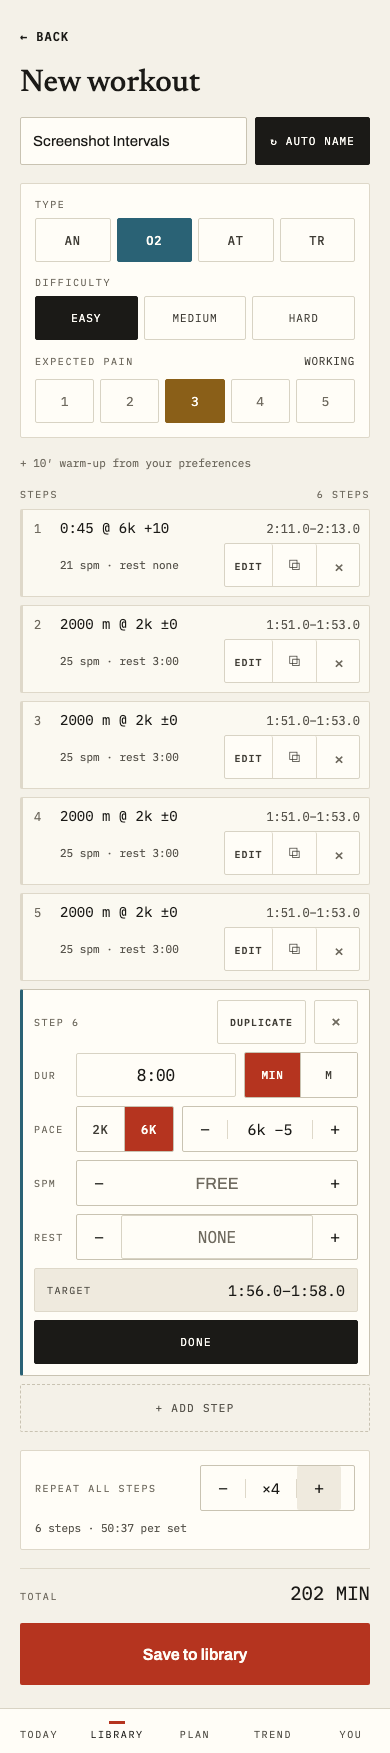
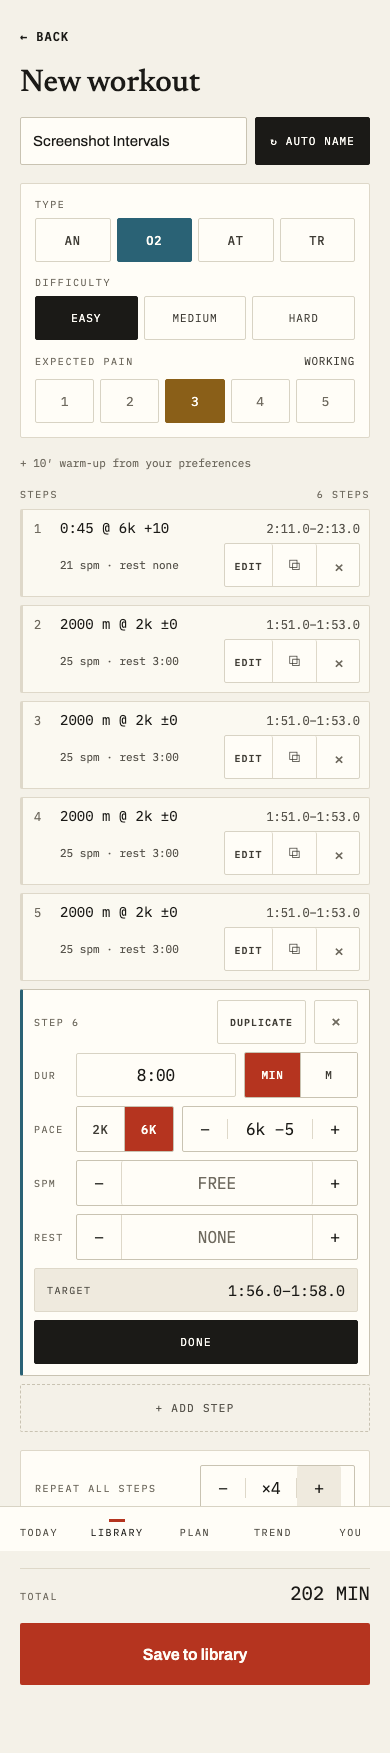
fix: unify the three stepper cells' look; harden the whole-second mirror test
- index.css: PACE/SPM/REST value cells now share one look (mono, 16px,
  side-borders-only) — SPM's input no longer loses its borders to a
  `border: 0` reset, and REST's ClockInput no longer nests its own
  bordered/radius box inside the stepper via a new `.stepper-value.clock-input`
  compound-specificity override. .pace-ref-display matches at 16px too.
- builderState.test.ts: added 31 (one of the 407 whole seconds that don't
  survive `n * 60` exactly) to the round-trip table, closing the gap where
  a naive `Number.isInteger(n * 60)` mirror regression left all tests green.
  Verified both ways (mutate -> fails, restore -> passes).
- Fixed four stale comments (FREE placeholder, ADD STEP no longer copies,
  REST's now-typable field, ClockInput's MAX_DIGITS rationale) and removed
  a dead pre-typed unit-switch click screenshots.spec.ts no longer needs.
- bulk.test.ts: renamed the test that claimed to agree with the builder but
  never touched it; added a real comparison test in builderState.test.ts
  that drives the same tokens through both parseDurationToken and the
  builder's REST round trip (domain tests can't import client code, so the
  actual comparison lives on the client side).

Claude-Session: https://claude.ai/code/session_01UEXqdgDid4Qjd8D5uoRZ3H

diff --git a/app/src/index.css b/app/src/index.css
@@ -1009,7 +1009,11 @@ button:disabled {
   border-right: 1px solid var(--rule-2);
   color: var(--ink);
   font-family: var(--font-mono);
-  font-size: 15px;
+  /* 16px, not 15: PACE's plain span has no iOS-zoom constraint of its own,
+     but SPM/REST's inputs must stay at 16px (below that, iOS Safari zooms
+     the page on focus), so the span comes up to meet them rather than the
+     inputs shrinking down to it — all three read as one control. */
+  font-size: 16px;
   text-align: center;
   overflow: hidden;
   text-overflow: ellipsis;
@@ -1024,15 +1028,38 @@ button:disabled {
 /* The value cell is an input when its caller passes onValueChange (Task 5:
    SPM/REST are typable, not only steppable) — same metrics, no chrome of
    its own, since the joined stepper container already draws the borders.
-   Only applies to the plain-text variant (SPM); REST's ClockInput keeps its
-   own `.clock-input` box (it already sets the required 16px/44px). */
+   Only the top/bottom borders are zeroed here: `.stepper-value`'s own
+   border-left/border-right (above) still apply since nothing here touches
+   those properties, so SPM's input keeps the same side borders as PACE's
+   span and REST's ClockInput instead of losing them to a `border: 0`
+   shorthand reset (that regression shipped once already — see
+   docs/design/DEVIATIONS.md history). */
 .stepper-value-input {
   min-height: 44px;
-  border: 0;
+  border-top: 0;
+  border-bottom: 0;
   background: transparent;
   color: inherit;
-  font: inherit;
+  font-family: var(--font-mono);
+  font-size: 16px;
   text-align: center;
+}
+
+/* REST's ClockInput renders inside a Stepper's value cell with both
+   `clock-input` and `stepper-value` on the same element. Two classes on one
+   element (specificity 0,2,0) beat either rule alone regardless of source
+   order, so this — not file position — is what makes the joined stepper's
+   own border/background win over `.clock-input`'s standalone box (used
+   elsewhere, e.g. DurationInput's DUR field, where that box is exactly what
+   we want and must stay untouched). Without this override REST nested a
+   second bordered, radius-cornered box inside the stepper's own box. */
+.stepper-value.clock-input {
+  width: auto;
+  border: 0;
+  border-left: 1px solid var(--rule-2);
+  border-right: 1px solid var(--rule-2);
+  border-radius: 0;
+  background: transparent;
 }
 
 /* Empty SPM/REST cells used to read "FREE"/"NONE" as literal text (a plain
@@ -1040,8 +1067,10 @@ button:disabled {
    placeholder just reads as broken. `::placeholder` restores the same
    reading without becoming the field's accessible name (`aria-label`
    already supplies that, and a placeholder drops out of the accessibility
-   tree once a name exists). ink-4 measures 5.29:1 against --surface — both
-   cells' background, .stepper's own and .clock-input's explicit one —
+   tree once a name exists). ink-4 measures 5.29:1 against --surface — every
+   cell's effective background resolves to --surface (the stepper's own,
+   inherited by both SPM's transparent input and REST's now-transparent
+   ClockInput; --surface directly for a standalone `.clock-input`) —
    clearing the 4.5:1 AA text requirement. `opacity: 1` overrides Firefox's
    default 54% placeholder fade, which would otherwise undercut that ratio. */
 .stepper-value-input::placeholder,
@@ -1304,7 +1333,10 @@ button:disabled {
   border-left: 1px solid var(--rule-2);
   border-right: 1px solid var(--rule-2);
   font-family: var(--font-mono);
-  font-size: 15px;
+  /* Matches `.stepper-value`'s 16px (below index.css's Stepper block) — a
+     plain span has no iOS-zoom constraint of its own, but it sits on the
+     same card as SPM/REST's 16px inputs and must read as one control. */
+  font-size: 16px;
   color: var(--ink);
   text-align: center;
   overflow: hidden;

diff --git a/app/src/builder/builderState.test.ts b/app/src/builder/builderState.test.ts
@@ -25,7 +25,11 @@ import {
   type BuilderForm,
   type BuilderRow,
 } from "./builderState";
-import { fmtDuration, parseClock } from "../../domain/duration.js";
+import {
+  fmtDuration,
+  parseClock,
+  parseDurationToken,
+} from "../../domain/duration.js";
 import { validateSteps } from "../../domain/validate.js";
 import { estimateMinutes } from "../../domain/expand.js";
 import type { Step } from "../../domain/types.js";
@@ -384,6 +388,35 @@ describe("toSteps", () => {
     expect(out.ok).toBe(false);
     if (out.ok) throw new Error("expected failure");
     expect(out.errors["row:default:rest"]).toMatch(/rest must be minutes/);
+  });
+
+  // Final review, fix wave 2: domain/bulk.test.ts had a test named "agrees
+  // with the builder on every duration form" that never touched the
+  // builder — it only called parseDurationToken directly, so it would still
+  // pass if a private, drifted regex ever replaced the shared call below.
+  // This is the actual cross-path comparison: it drives the same tokens
+  // through the builder's real REST round trip (formWith -> toSteps, the
+  // path a typed REST value takes to becoming `restMinutes`) and checks the
+  // result against calling parseDurationToken directly on the same token —
+  // proving the two agree because REST calls the shared function rather
+  // than a parser of its own.
+  it("builder's REST field agrees with parseDurationToken on every duration form", () => {
+    for (const token of ["0:45", "5", "10'"]) {
+      const expected = parseDurationToken(token);
+      if (expected === null || expected.kind !== "time") {
+        throw new Error(`fixture bug: ${token} should parse as a time`);
+      }
+      const f = formWith({ rows: [{ ...defaultValidRow(), rest: token }] });
+      const out = toSteps(f);
+      if (!out.ok) {
+        throw new Error(
+          `expected ok for rest "${token}", got ${JSON.stringify(out.errors)}`,
+        );
+      }
+      expect(out.steps[0], `${token}`).toMatchObject({
+        restMinutes: expected.minutes,
+      });
+    }
   });
 
   // 0.25 minutes (15s) used to violate the old half-step grid but is a
@@ -901,7 +934,13 @@ describe("clock durations in rows", () => {
   });
 
   it("round-trips every whole second the field can produce", () => {
-    for (const seconds of [1, 20, 45, 59, 60, 90, 3599, 3600, 10800]) {
+    // 31 is one of the 407 whole seconds (of 10,800 in range) that don't
+    // survive the round trip exactly — 31 / 60 * 60 === 31.000000000000004
+    // — so a naive `Number.isInteger(n * 60)` mirror of the domain's
+    // epsilon-based `wholeSecond` predicate would reject it while every
+    // other value in this table (all "clean" multiples) still passes. See
+    // domain/validate.test.ts's identical case for the domain side of this.
+    for (const seconds of [1, 20, 31, 45, 59, 60, 90, 3599, 3600, 10800]) {
       const minutes = seconds / 60;
       const form = fromWorkout({
         title: "T",

diff --git a/app/e2e/screenshots.spec.ts b/app/e2e/screenshots.spec.ts
@@ -213,18 +213,14 @@ async function fillSampleWorkout(page: Page): Promise<void> {
   await duplicateRow2.click();
   await duplicateRow2.click();
 
-  // Step 6: "+ ADD STEP" appends a copy of the last row's values and opens
-  // it — nudge it to look deliberately different (minutes, not metres;
-  // 6k, not 2k) so the screenshot doesn't read as four identical clones.
-  // It's copied a metres row, so the unit switch has to happen BEFORE
-  // typing (switching clears the field — a meter count is meaningless as a
-  // clock string); "800" digits into the now-masked clock field renders as
-  // "8:00".
+  // Step 6: "+ ADD STEP" appends a blank work step and opens it (Task 6 —
+  // it no longer copies the last row's values) — give it distinct values
+  // (minutes, not metres; 6k, not 2k) so the screenshot doesn't read as
+  // four identical clones. A blank row already defaults to "min"
+  // (newRow(), builderState.ts), so no unit switch is needed before typing;
+  // "800" digits into the masked clock field renders as "8:00".
   await page.getByRole("button", { name: "+ ADD STEP" }).click();
   const lastRowLabel = "Row 6";
-  await page
-    .getByRole("radio", { name: `${lastRowLabel} duration unit minutes` })
-    .click();
   await page
     .getByLabel(`${lastRowLabel} duration`, { exact: true })
     .fill("800");

diff --git a/app/src/builder/builderState.ts b/app/src/builder/builderState.ts
@@ -537,11 +537,13 @@ function stepToRow(s: Extract<Step, { k: "wu" | "w" | "r" }>): BuilderRow {
     row.refOff = s.ref.off;
     row.spm = s.spm !== undefined ? String(s.spm) : "";
     // `rest` writes the clock form — toSteps reads it back via
-    // `parseDurationToken`, which accepts clock strings (and still accepts a
-    // bare number or `5'` for anything hand-typed into the free-text REST
-    // field), so this must keep producing something that reads back as the
-    // same minutes or round-tripping a stored workout with restMinutes set
-    // produces an unparseable field and the edit can't be saved.
+    // `parseDurationToken`, which also accepts a bare number or `5'`, but
+    // REST is a typable ClockInput now (Task 5 replaced the old free-text
+    // field), so those two forms are only ever produced by bulk import's
+    // text blocks, never by this round trip. This must still keep producing
+    // something that reads back as the same minutes, or round-tripping a
+    // stored workout with restMinutes set produces an unparseable field and
+    // the edit can't be saved.
     row.rest = s.restMinutes !== undefined ? fmtDuration(s.restMinutes) : "";
   }
   return row;

diff --git a/app/domain/bulk.test.ts b/app/domain/bulk.test.ts
@@ -380,10 +380,15 @@ describe("clock durations in bulk blocks", () => {
     expect(step).toMatchObject({ duration: { kind: "time", minutes: 0.75 } });
   });
 
-  it("agrees with the builder on every duration form", () => {
-    // The two parsers were byte-identical regexes kept in lockstep by hand.
-    // They are now one function; this asserts the claim instead of commenting
-    // it.
+  it("covers every legal duration form (clock, bare number, apostrophe, distance)", () => {
+    // Named for what this actually checks: parseDurationToken's own grammar
+    // coverage. It doesn't touch the builder — importing src/builder/
+    // from a domain test would be a layering violation (domain must not
+    // depend on client code) — so it can't and doesn't prove the builder
+    // agrees with this. That comparison lives in
+    // src/builder/builderState.test.ts ("builder's REST field agrees with
+    // parseDurationToken on every duration form"), which is allowed to
+    // import domain code and does the actual cross-path comparison.
     for (const [token, expected] of [
       ["0:45", { kind: "time", minutes: 0.75 }],
       ["5", { kind: "time", minutes: 5 }],

diff --git a/app/src/builder/ClockInput.tsx b/app/src/builder/ClockInput.tsx
@@ -1,10 +1,14 @@
 import type { ChangeEvent } from "react";
 import { fmtDuration, parseClock } from "../../domain/duration.js";
 
-// Five digits reaches 3:00:00, the domain's ceiling for a single step: the
-// h:mm:ss branch below takes everything left of the last 4 digits as hours,
-// so a 6th digit would produce a two-digit hour group (e.g. "300000" ->
-// "30:00:00"), blowing past the ceiling instead of sitting at it.
+// Not a precise cap at the domain's 3:00:00 ceiling for a single step —
+// "99999" formats to "9:99:99", which read as h:mm:ss is 10:40:39, well past
+// it. Values that far out of range are rejected cleanly at save (toSteps's
+// bounds checks), so the field doesn't need to enforce the ceiling itself.
+// What 5 digits does prevent: the h:mm:ss branch below takes everything left
+// of the last 4 digits as hours, so a 6th digit would produce a two-digit
+// hour group (e.g. "300000" -> "30:00:00") — a value that reads as wildly
+// wrong before the user even reaches Save, rather than merely out of range.
 const MAX_DIGITS = 5;
 
 /** Digits, filled right to left into ss, then mm, then hh — the same order the

diff --git a/app/e2e/builder.spec.ts b/app/e2e/builder.spec.ts
@@ -708,9 +708,11 @@ test.describe("new controls this phase introduced", () => {
     await page.goto("/library/new");
 
     // SPM is a typable Stepper now (Task 5) — the joined "− value +" group
-    // (Stepper.tsx) whose value cell is a numeric input, blank rather than
-    // reading the word "FREE" when empty (a field you can type into can't
-    // also render a word while holding "").
+    // (Stepper.tsx) whose value cell is a numeric input; its value stays ""
+    // when empty (a field you can type into can't also hold a literal word
+    // as its value). Task 9 added a "FREE" placeholder so the cell still
+    // reads that word visually — this asserts the underlying value, which
+    // the placeholder doesn't change.
     const spmValue = page.getByLabel("Row 1 stroke rate value");
     await expect(spmValue).toHaveValue("");
     await page.getByRole("button", { name: "Row 1 stroke rate up" }).click();
